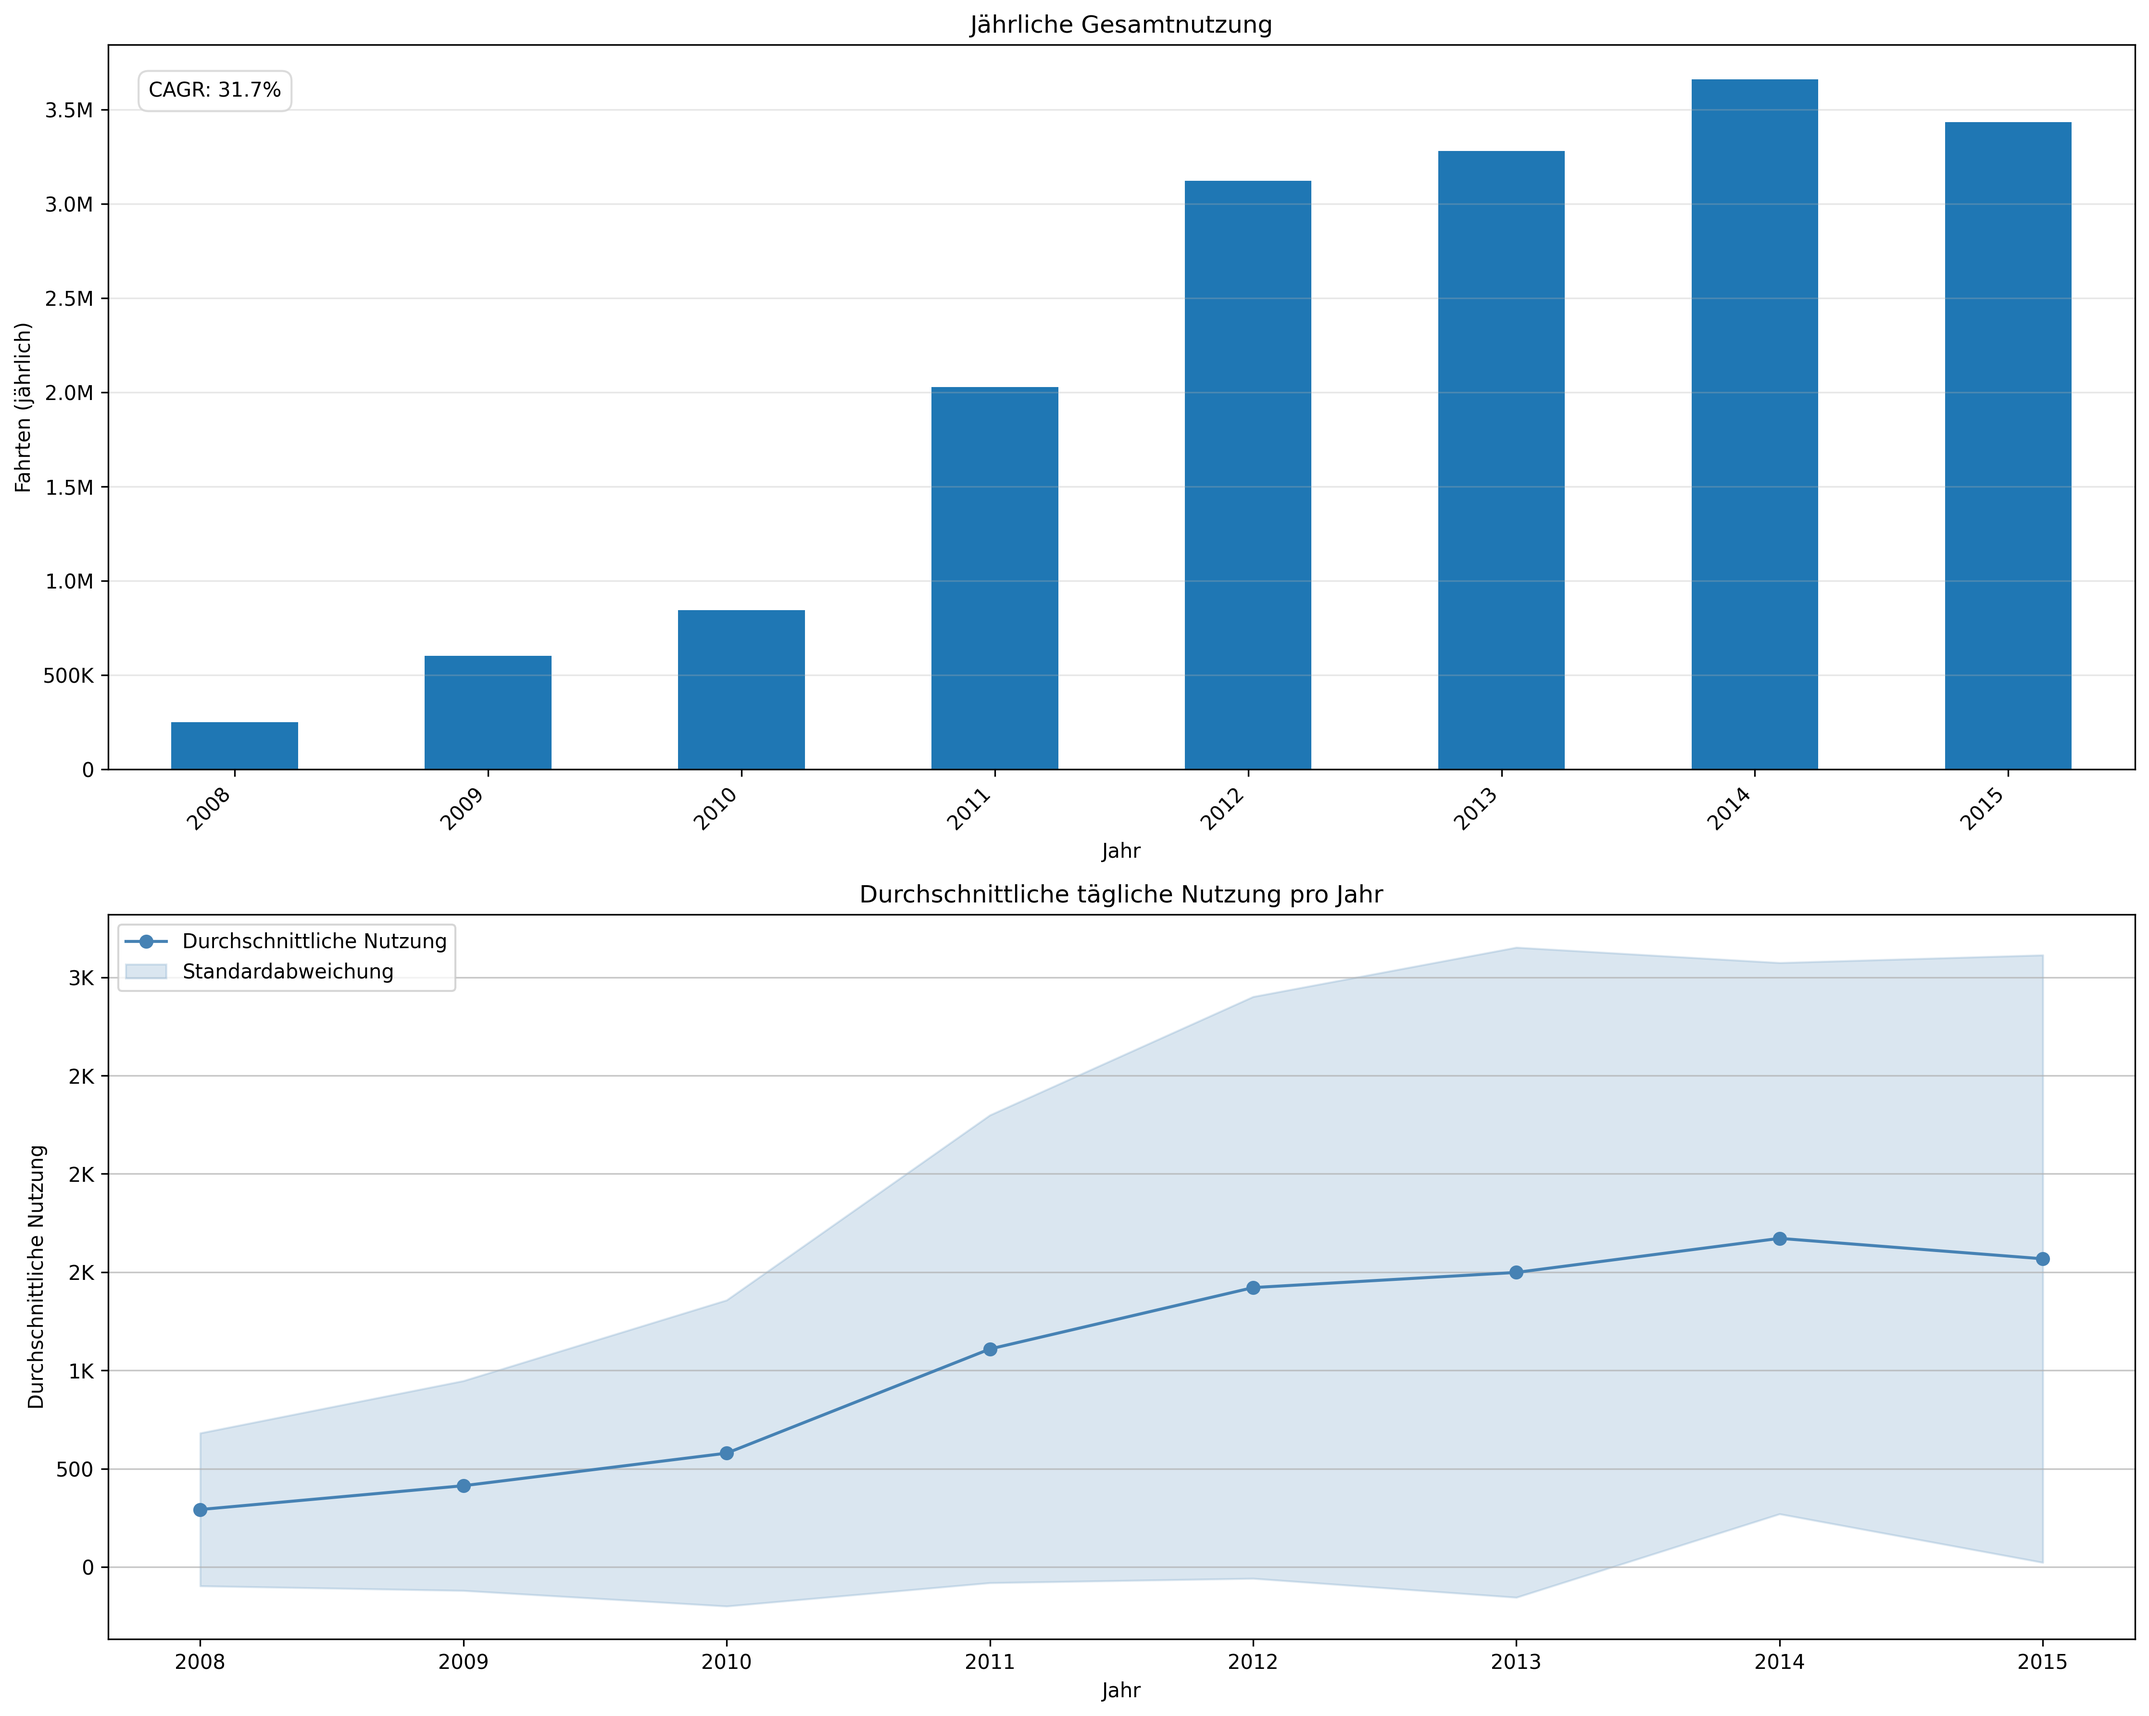
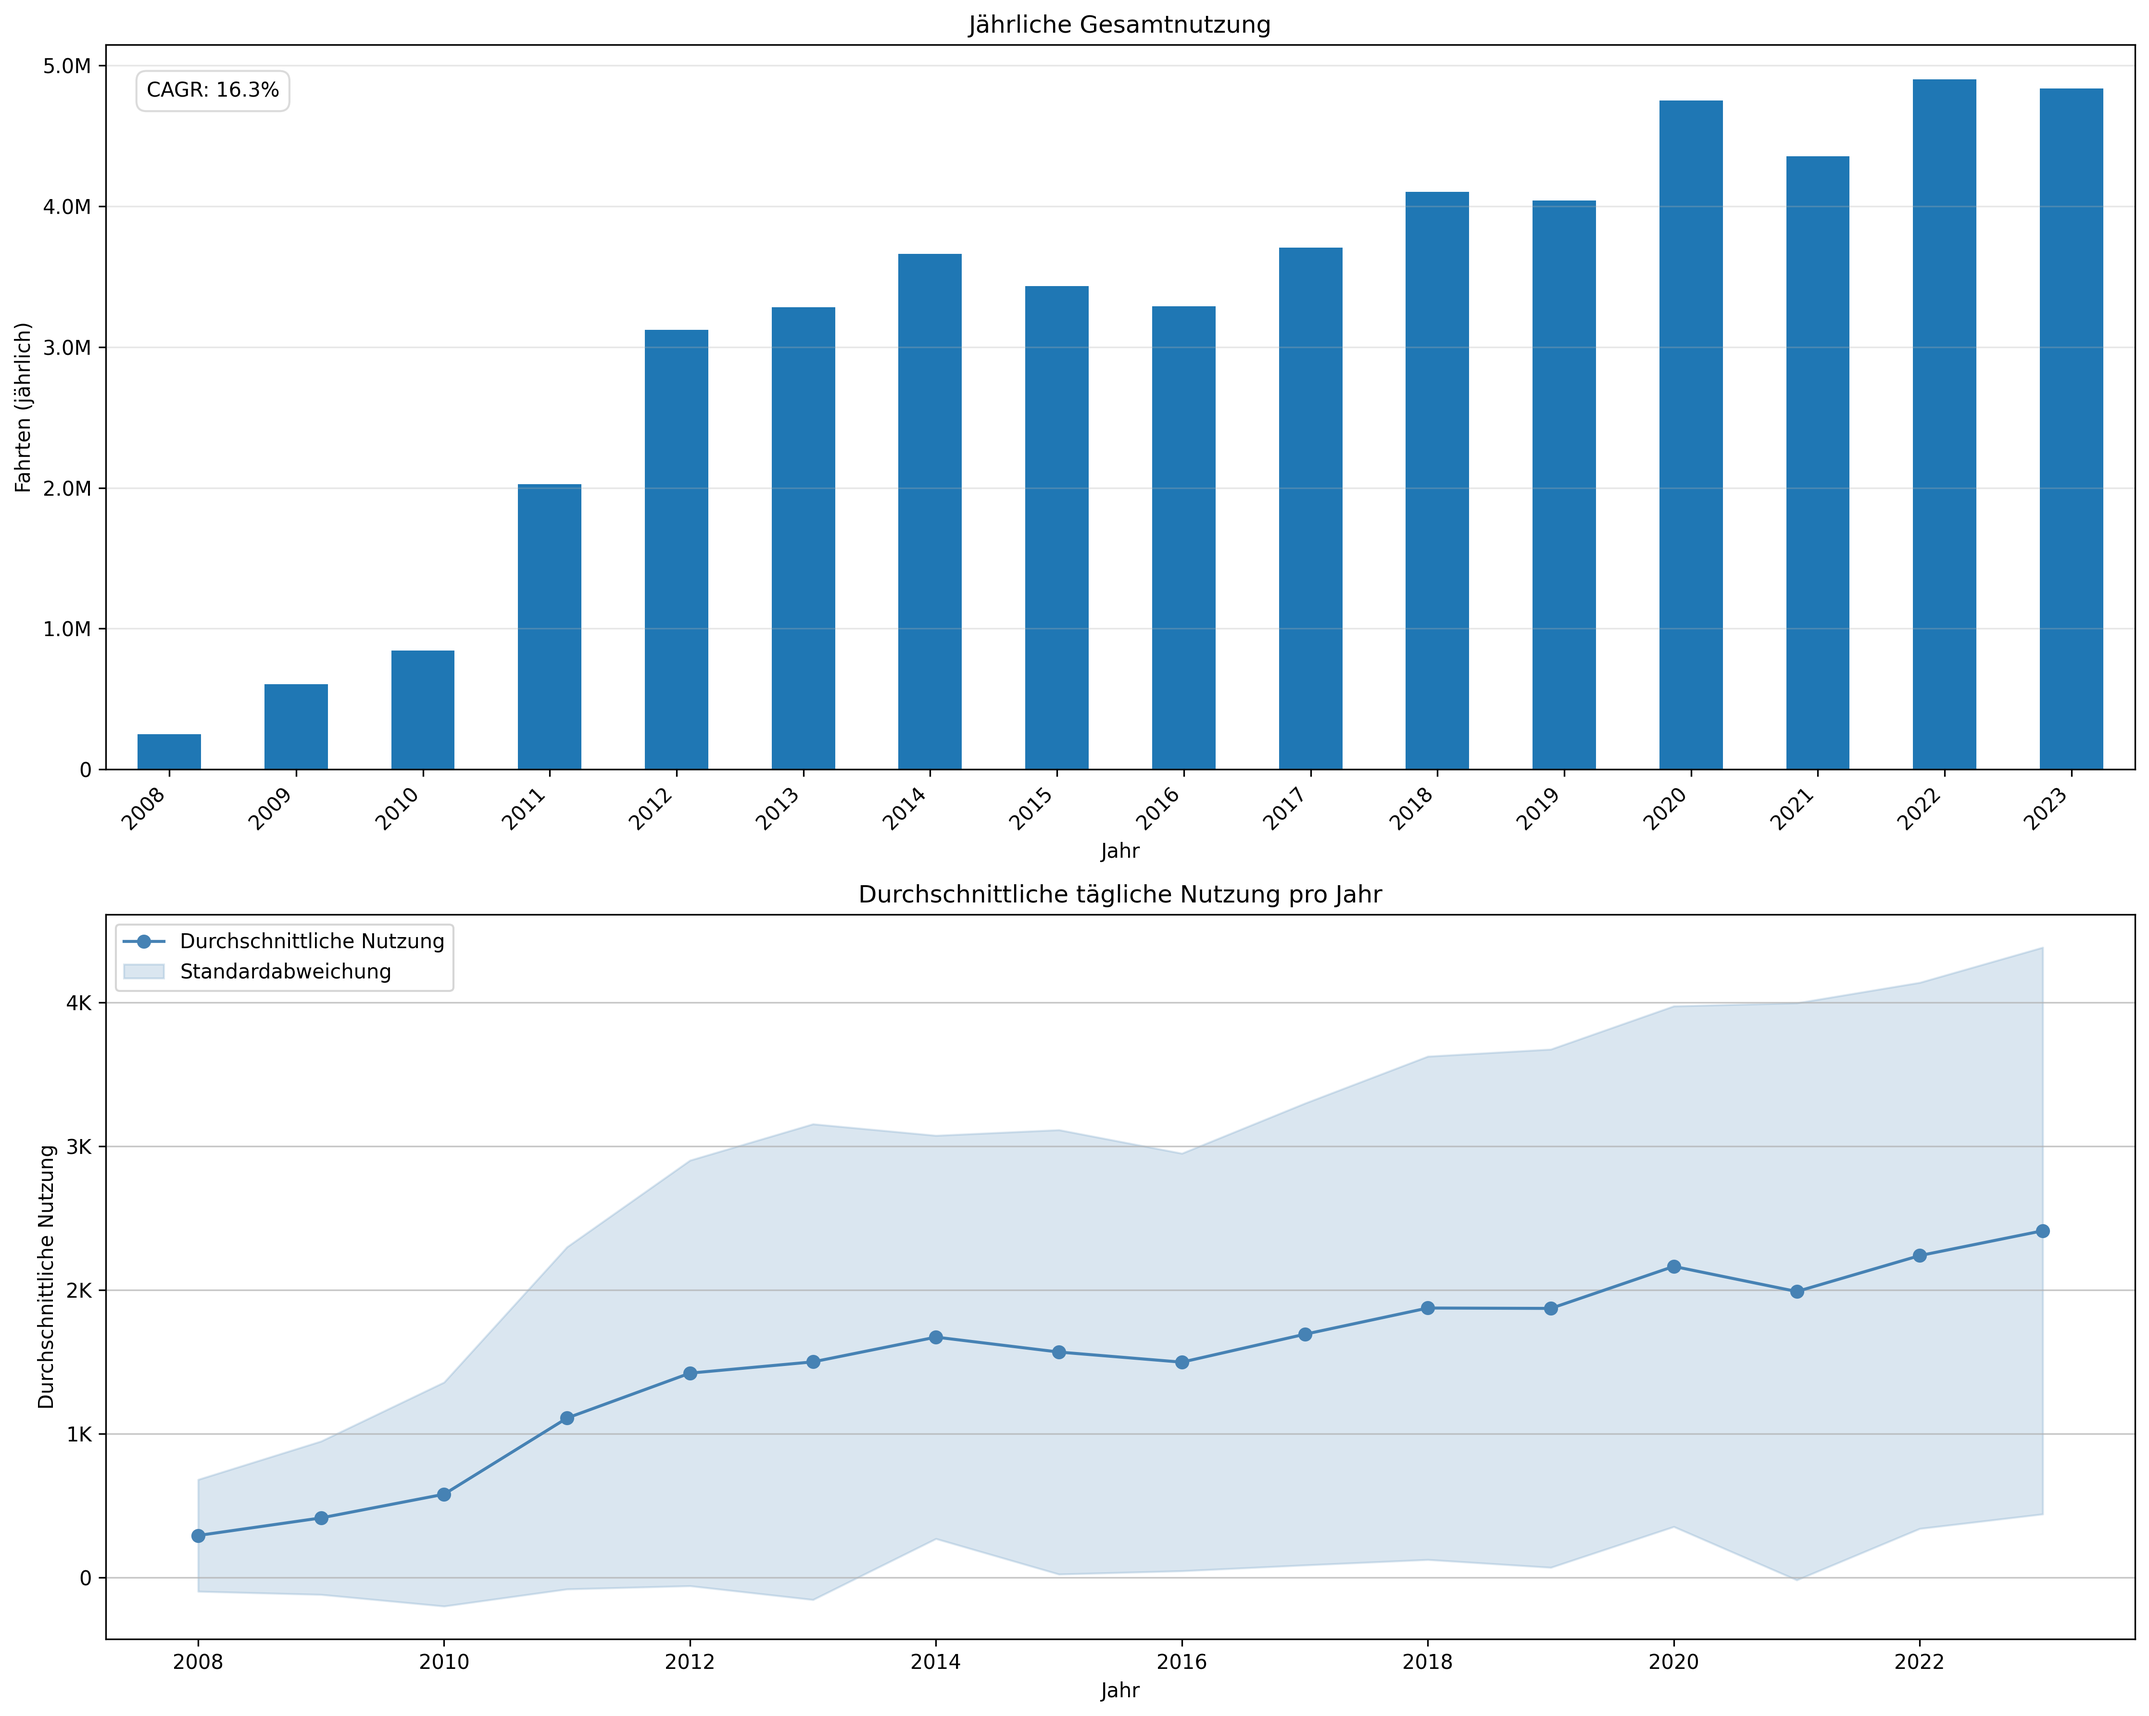
aggregate 15min data to hourly

diff --git a/analysis.py b/analysis.py
@@ -8,7 +8,7 @@ from matplotlib.ticker import FuncFormatter
 import calendar
 
 # TODO: Default-Wert für year_range ändern
-DEFAULT_YEAR_RANGE = [2008, 2013]
+DEFAULT_YEAR_RANGE = [2008, 2024]
 PLOT_PATH = "plots/"
 
 dtypes = {
@@ -45,19 +45,55 @@ def load_all_years(year_range=DEFAULT_YEAR_RANGE):
     return df
 
 
-def load_quarterly_data(year_range=DEFAULT_YEAR_RANGE):
+def aggregate_hourly(df):
+    """Optimierte Version mit numpy"""
+    # Gruppiere zuerst nach den Schlüsseln
+    grouped = df.groupby(["datum", "zaehlstelle", "hour"])
+
+    # Berechne Summen mit numpy
+    sums = grouped.agg({"richtung_1": "sum", "richtung_2": "sum", "gesamt": "sum"})
+
+    # Berechne Kommentar-Aggregation separat
+    comments = grouped["kommentar"].agg(
+        lambda x: "; ".join(set(x.dropna())) if x.notna().any() else "NA"
+    )
+
+    # Finde Gruppen mit Kommentaren und 0-Summen
+    has_comments = grouped["kommentar"].apply(lambda x: x.notna().any())
+    zero_sums = (sums == 0).all(axis=1)
+
+    # Setze NA mit numpy
+    mask = has_comments & zero_sums
+    sums[mask] = pd.NA
+
+    result = pd.concat([sums, comments], axis=1)
+    return result.reset_index()
+
+
+def load_hourly_data(year_range=DEFAULT_YEAR_RANGE):
     """Lädt die 15-Minuten-Daten für mehrere Jahre"""
     dfs = []
     years = range(year_range[0], year_range[1])
+
+    def convert_to_hourly(df: pd.DataFrame):
+        """Konvertiert 15-Minuten-Daten in stündliche Daten"""
+        df["time_start"] = pd.to_datetime(df["datum"] + " " + df["uhrzeit_start"])
+        df["hour"] = df["time_start"].dt.hour
+        df["gesamt"] = df["richtung_1"] + df["richtung_2"]
+        hourly_data = aggregate_hourly(df)
+        hourly_data["time_start"] = pd.to_datetime(
+            hourly_data["datum"] + " " + hourly_data["hour"].astype(str) + ":00"
+        )
+        hourly_data = hourly_data.drop(["datum", "hour"], axis=1)
+        return hourly_data
+
     for year in years:
         file_path = f"data_raw/rad_{year}_15min_06_06_23_r.csv"
         df = pd.read_csv(file_path, dtype=dtypes)
+        print(f"\tLade Daten für {year}...")
 
-        # Zeit-Spalten erstellen
-        df["time_start"] = pd.to_datetime(df["datum"] + " " + df["uhrzeit_start"])
-        df["time_end"] = pd.to_datetime(df["datum"] + " " + df["uhrzeit_ende"])
-        df = df.drop(["datum", "uhrzeit_start", "uhrzeit_ende"], axis=1)
-        dfs.append(df)
+        df_hourly_aggregated = convert_to_hourly(df)
+        dfs.append(df_hourly_aggregated)
 
     df = pd.concat(dfs, ignore_index=True)
     df.sort_values("time_start", inplace=True)
@@ -70,10 +106,12 @@ def load_quarterly_data(year_range=DEFAULT_YEAR_RANGE):
 def interpolate_plausible_values(df: pd.DataFrame):
     """Bereinigt und interpoliert Werte basierend auf Kommentaren"""
     # Berechne Mediane pro Zählstelle
-    medians = df.groupby("zaehlstelle").agg(
-        {"richtung_1": "median", "richtung_2": "median"}
+    medians = (
+        df.groupby("zaehlstelle")
+        .agg({"richtung_1": "median", "richtung_2": "median"})
+        .round()
+        .astype(int)
     )
-    print(medians)
     for i in df.index:
         if df.at[i, "kommentar"] in {
             "Baustelle",
@@ -132,7 +170,7 @@ def clean_data(df):
     # JETZT: Fehlende Werte rauswerfen
     # df = df.dropna()
 
-    df.to_csv("data_cleaned.csv", index=False)
+    # df.to_csv("data_cleaned.csv", index=False)
 
     return df
 
@@ -273,7 +311,7 @@ def analyze_outages(daily_data):
                 # Add text with small font
                 ax1.text(
                     j + 0.5,
-                    i + 0.7,
+                    i + 0.8,
                     reason_str,
                     ha="center",
                     va="center",
@@ -475,25 +513,27 @@ def analyze_usage_patterns(quarterly_data):
 
 def main():
     # Daten laden
-    # print("Lade Tagesdaten...")
-    # daily_data = load_all_years()
-    print("Lade Viertelstundendaten...")
-    quarterly_data = load_quarterly_data()
+    print("Lade Tagesdaten...")
+    daily_data = load_all_years()
+    print("Lade Stundendaten...")
+    hourly_data = load_hourly_data()
+    # hourly_data = pd.read_csv("data_raw_quarterly.csv", dtype=dtypes)
+    # hourly_data["time_start"] = pd.to_datetime(hourly_data["time_start"])
 
     # Deskriptive Statistik erstellen
-    # create_descriptive_statistics(daily_data)
+    create_descriptive_statistics(daily_data)
 
     # Daten bereinigen
     print("Bereinige Daten...")
-    # daily_data = clean_data(daily_data)
-    quarterly_data = clean_data(quarterly_data)
+    daily_data = clean_data(daily_data)
+    hourly_data = clean_data(hourly_data)
 
     # Analysen durchführen
     print("\nFühre Analysen durch...")
-    # outage_analysis = analyze_outages(daily_data)
-    # usage_trends = analyze_usage_trends(daily_data)
+    outage_analysis = analyze_outages(daily_data)
+    usage_trends = analyze_usage_trends(daily_data)
     # weather_impact = analyze_weather_impact(daily_data)
-    analyze_usage_patterns(quarterly_data)
+    analyze_usage_patterns(hourly_data)
 
     print("\nAnalysen abgeschlossen. Visualisierungen wurden gespeichert.")
 
